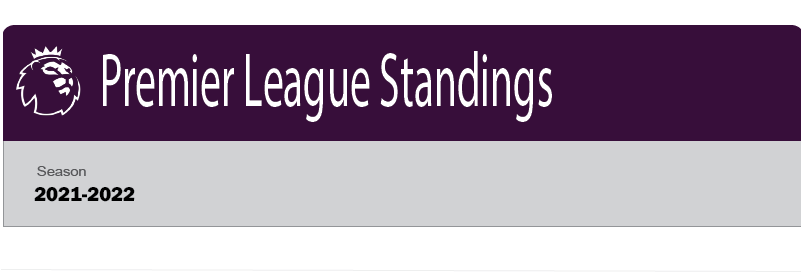
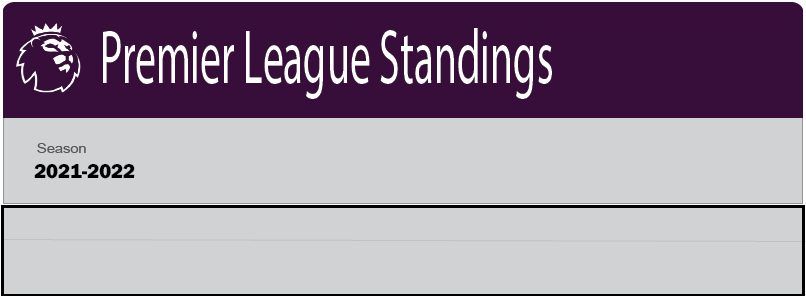
nine

diff --git a/src/library/standings.java b/src/library/standings.java
@@ -10,7 +10,7 @@ import java.sql.SQLException;
 public class standings implements ActionListener {
     JFrame fr;
     JPanel panel;
-    JLabel lbl_img, Lbl_img, lbl_mp, lbl_won, lbl_draw, lbl_loss, lbl_gf, lbl_ga, lbl_gd, lbl_pts;
+    JLabel lbl_img, lbl_img1, lbl_mp, lbl_won, lbl_draw, lbl_loss, lbl_gf, lbl_ga, lbl_gd, lbl_pts;
     JButton btn_update, btn_back;
     JTextField txt_mp, txt_won, txt_draw, txt_loss, txt_gf, txt_ga, txt_gd, txt_pts;
     ImageIcon image_premier, image2;
@@ -37,49 +37,49 @@ public class standings implements ActionListener {
         lbl_mp = new JLabel("MP");
         lbl_mp.setFont(fon1);
         lbl_mp.setForeground(Color.darkGray);
-        lbl_mp.setBounds(400, 215, 100, 20);
+        lbl_mp.setBounds(390, 190, 100, 20);
         panel.add(lbl_mp);
 
         lbl_won = new JLabel("W");
         lbl_won.setFont(fon1);
         lbl_won.setForeground(Color.darkGray);
-        lbl_won.setBounds(460, 215, 100, 20);
+        lbl_won.setBounds(450, 190, 100, 20);
         panel.add(lbl_won);
 
         lbl_draw = new JLabel("D");
         lbl_draw.setFont(fon1);
         lbl_draw.setForeground(Color.darkGray);
-        lbl_draw.setBounds(515, 215, 100, 20);
+        lbl_draw.setBounds(505, 190, 100, 20);
         panel.add(lbl_draw);
 
         lbl_loss = new JLabel("L");
         lbl_loss.setFont(fon1);
         lbl_loss.setForeground(Color.darkGray);
-        lbl_loss.setBounds(568, 215, 100, 20);
+        lbl_loss.setBounds(558, 190, 100, 20);
         panel.add(lbl_loss);
 
         lbl_gf = new JLabel("GF");
         lbl_gf.setFont(fon1);
         lbl_gf.setForeground(Color.darkGray);
-        lbl_gf.setBounds(610, 215, 100, 20);
+        lbl_gf.setBounds(600, 190, 100, 20);
         panel.add(lbl_gf);
 
         lbl_ga = new JLabel("GA");
         lbl_ga.setFont(fon1);
         lbl_ga.setForeground(Color.darkGray);
-        lbl_ga.setBounds(660, 215, 100, 20);
+        lbl_ga.setBounds(650, 190, 100, 20);
         panel.add(lbl_ga);
 
         lbl_gd = new JLabel("GD");
         lbl_gd.setFont(fon1);
         lbl_gd.setForeground(Color.darkGray);
-        lbl_gd.setBounds(705, 215, 100, 20);
+        lbl_gd.setBounds(695, 190, 100, 20);
         panel.add(lbl_gd);
 
         lbl_pts = new JLabel("PTS");
         lbl_pts.setFont(fon1);
         lbl_pts.setForeground(Color.darkGray);
-        lbl_pts.setBounds(750, 215, 100, 20);
+        lbl_pts.setBounds(745, 190, 100, 20);
         panel.add(lbl_pts);
 
         //Buttons
@@ -106,49 +106,49 @@ public class standings implements ActionListener {
                 //TextField
                 txt_mp = new JTextField(rs.getString("mp"));
                 txt_mp.setFont(fon2);
-                txt_mp.setBounds(400, 260, 30, 25);
+                txt_mp.setBounds(385, 230, 35, 25);
                 txt_mp.setBackground(new Color(245, 254, 255));
                 panel.add(txt_mp);
 
                 txt_won = new JTextField(rs.getString("won"));
                 txt_won.setFont(fon2);
-                txt_won.setBounds(457, 260, 30, 25);
+                txt_won.setBounds(457, 230, 30, 25);
                 txt_won.setBackground(new Color(245, 254, 255));
                 panel.add(txt_won);
 
                 txt_draw = new JTextField(rs.getString("draw"));
                 txt_draw.setFont(fon2);
-                txt_draw.setBounds(510, 260, 30, 25);
+                txt_draw.setBounds(510, 230, 30, 25);
                 txt_draw.setBackground(new Color(245, 254, 255));
                 panel.add(txt_draw);
 
                 txt_loss = new JTextField(rs.getString("loss"));
                 txt_loss.setFont(fon2);
-                txt_loss.setBounds(563, 260, 30, 25);
+                txt_loss.setBounds(563, 230, 30, 25);
                 txt_loss.setBackground(new Color(245, 254, 255));
                 panel.add(txt_loss);
 
                 txt_gf = new JTextField(rs.getString("gf"));
                 txt_gf.setFont(fon2);
-                txt_gf.setBounds(610, 260, 30, 25);
+                txt_gf.setBounds(610, 230, 30, 25);
                 txt_gf.setBackground(new Color(245, 254, 255));
                 panel.add(txt_gf);
 
                 txt_ga = new JTextField(rs.getString("ga"));
                 txt_ga.setFont(fon2);
-                txt_ga.setBounds(660, 260, 30, 25);
+                txt_ga.setBounds(660, 230, 30, 25);
                 txt_ga.setBackground(new Color(245, 254, 255));
                 panel.add(txt_ga);
 
                 txt_gd = new JTextField(rs.getString("gd"));
                 txt_gd.setFont(fon2);
-                txt_gd.setBounds(705, 260, 30, 25);
+                txt_gd.setBounds(705, 230, 30, 25);
                 txt_gd.setBackground(new Color(245, 254, 255));
                 panel.add(txt_gd);
 
                 txt_pts = new JTextField(rs.getString("pts"));
                 txt_pts.setFont(fon2);
-                txt_pts.setBounds(750, 260, 35, 25);
+                txt_pts.setBounds(750, 230, 35, 25);
                 txt_pts.setBackground(new Color(245, 254, 255));
                 panel.add(txt_pts);
 
@@ -161,6 +161,10 @@ public class standings implements ActionListener {
             lbl_img.setBounds(0, -130, 798, 500);
             panel.add(lbl_img);
 
+            image2 = new ImageIcon(getClass().getResource("bg1.png"));
+            lbl_img1 = new JLabel(image2);
+            lbl_img1.setBounds(0, 300, 800, 750);
+            panel.add(lbl_img1);
 
             fr.setSize(815, 750);
             fr.setLayout(null);

diff --git a/src/library/HomePage.java b/src/library/HomePage.java
@@ -61,7 +61,7 @@ public class HomePage implements ActionListener {
 
         btn_logout = new JButton("Logout");
         btn_logout.setFont(fon1);
-        btn_logout.setBounds(645, 500, 120, 40);
+        btn_logout.setBounds(665, 10, 120, 40);
         btn_logout.setBackground(Color.white);
         panel.add(btn_logout);
 
